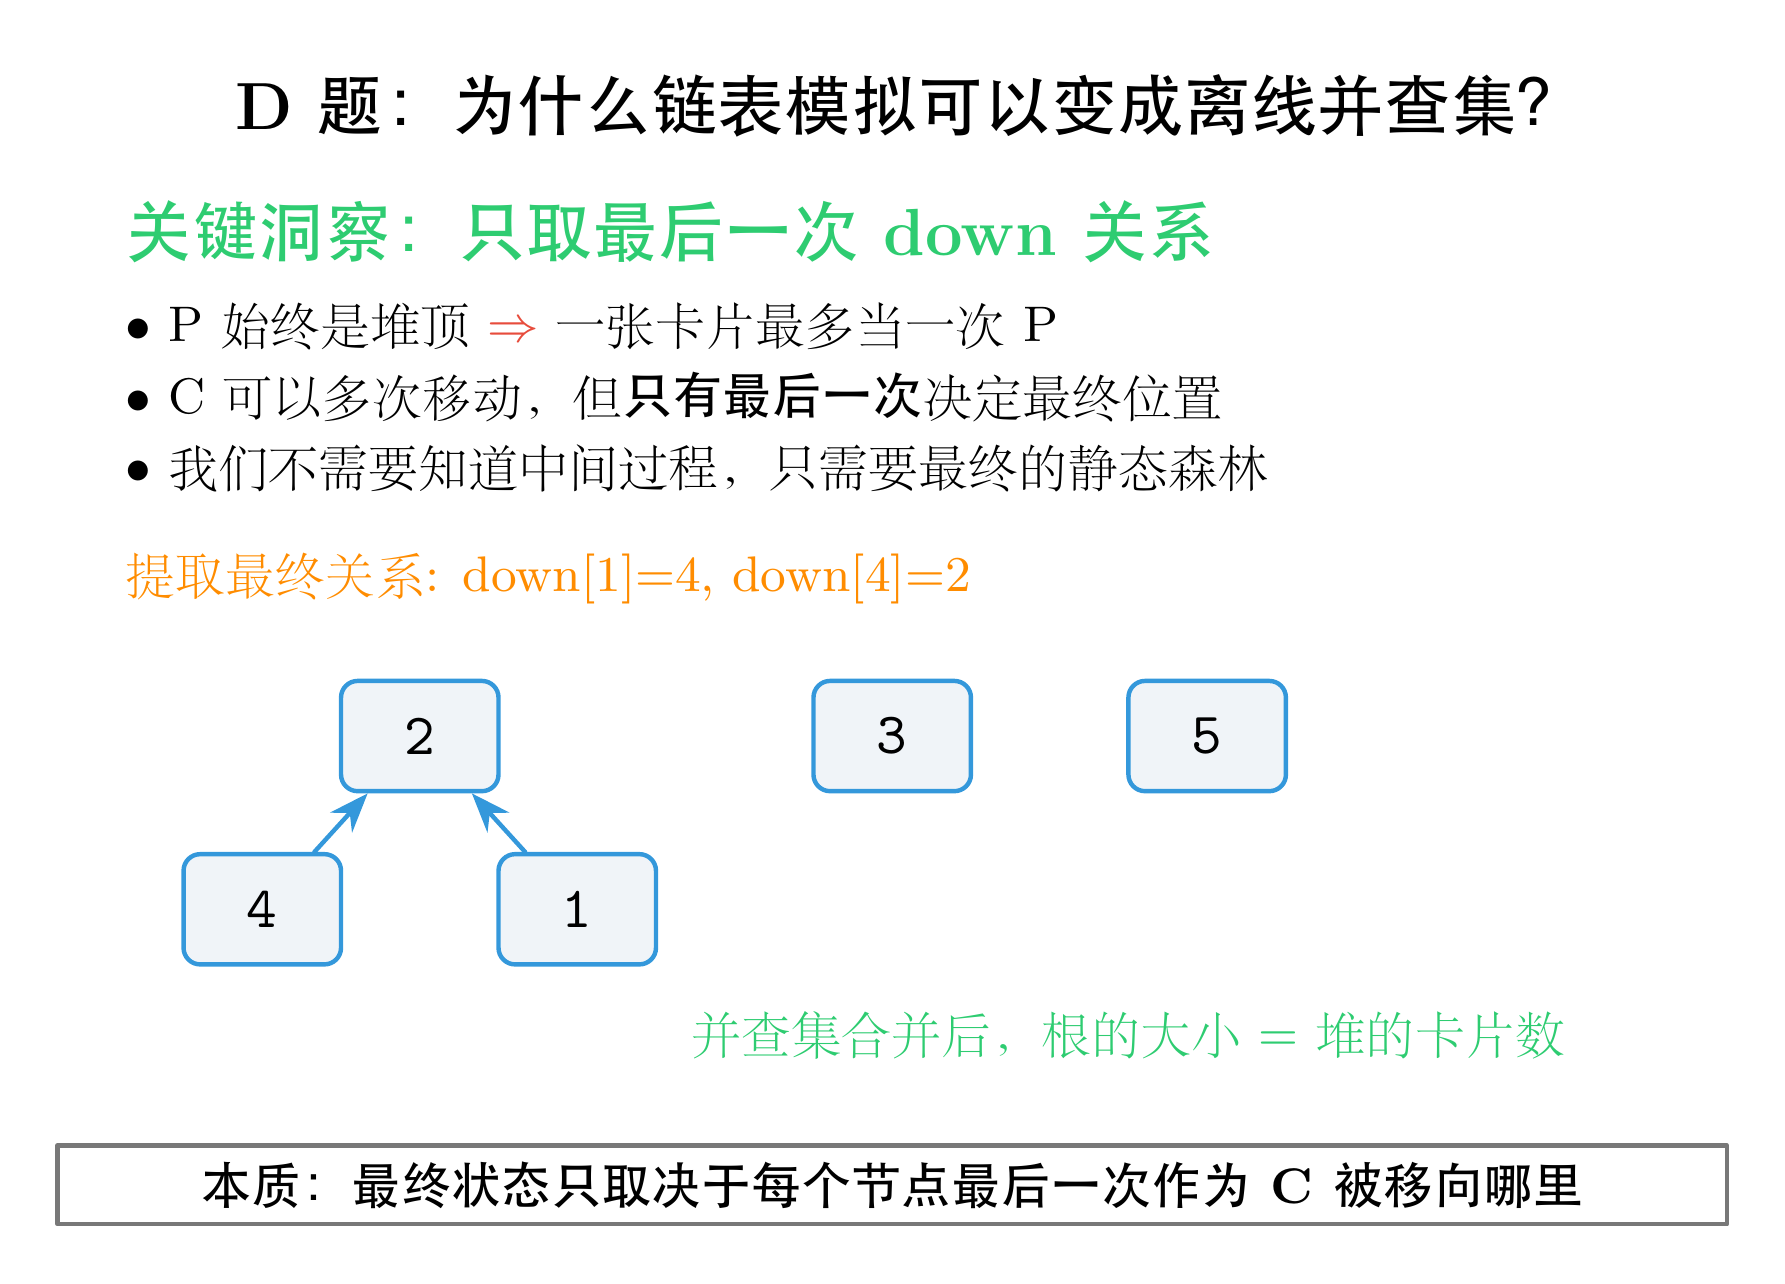
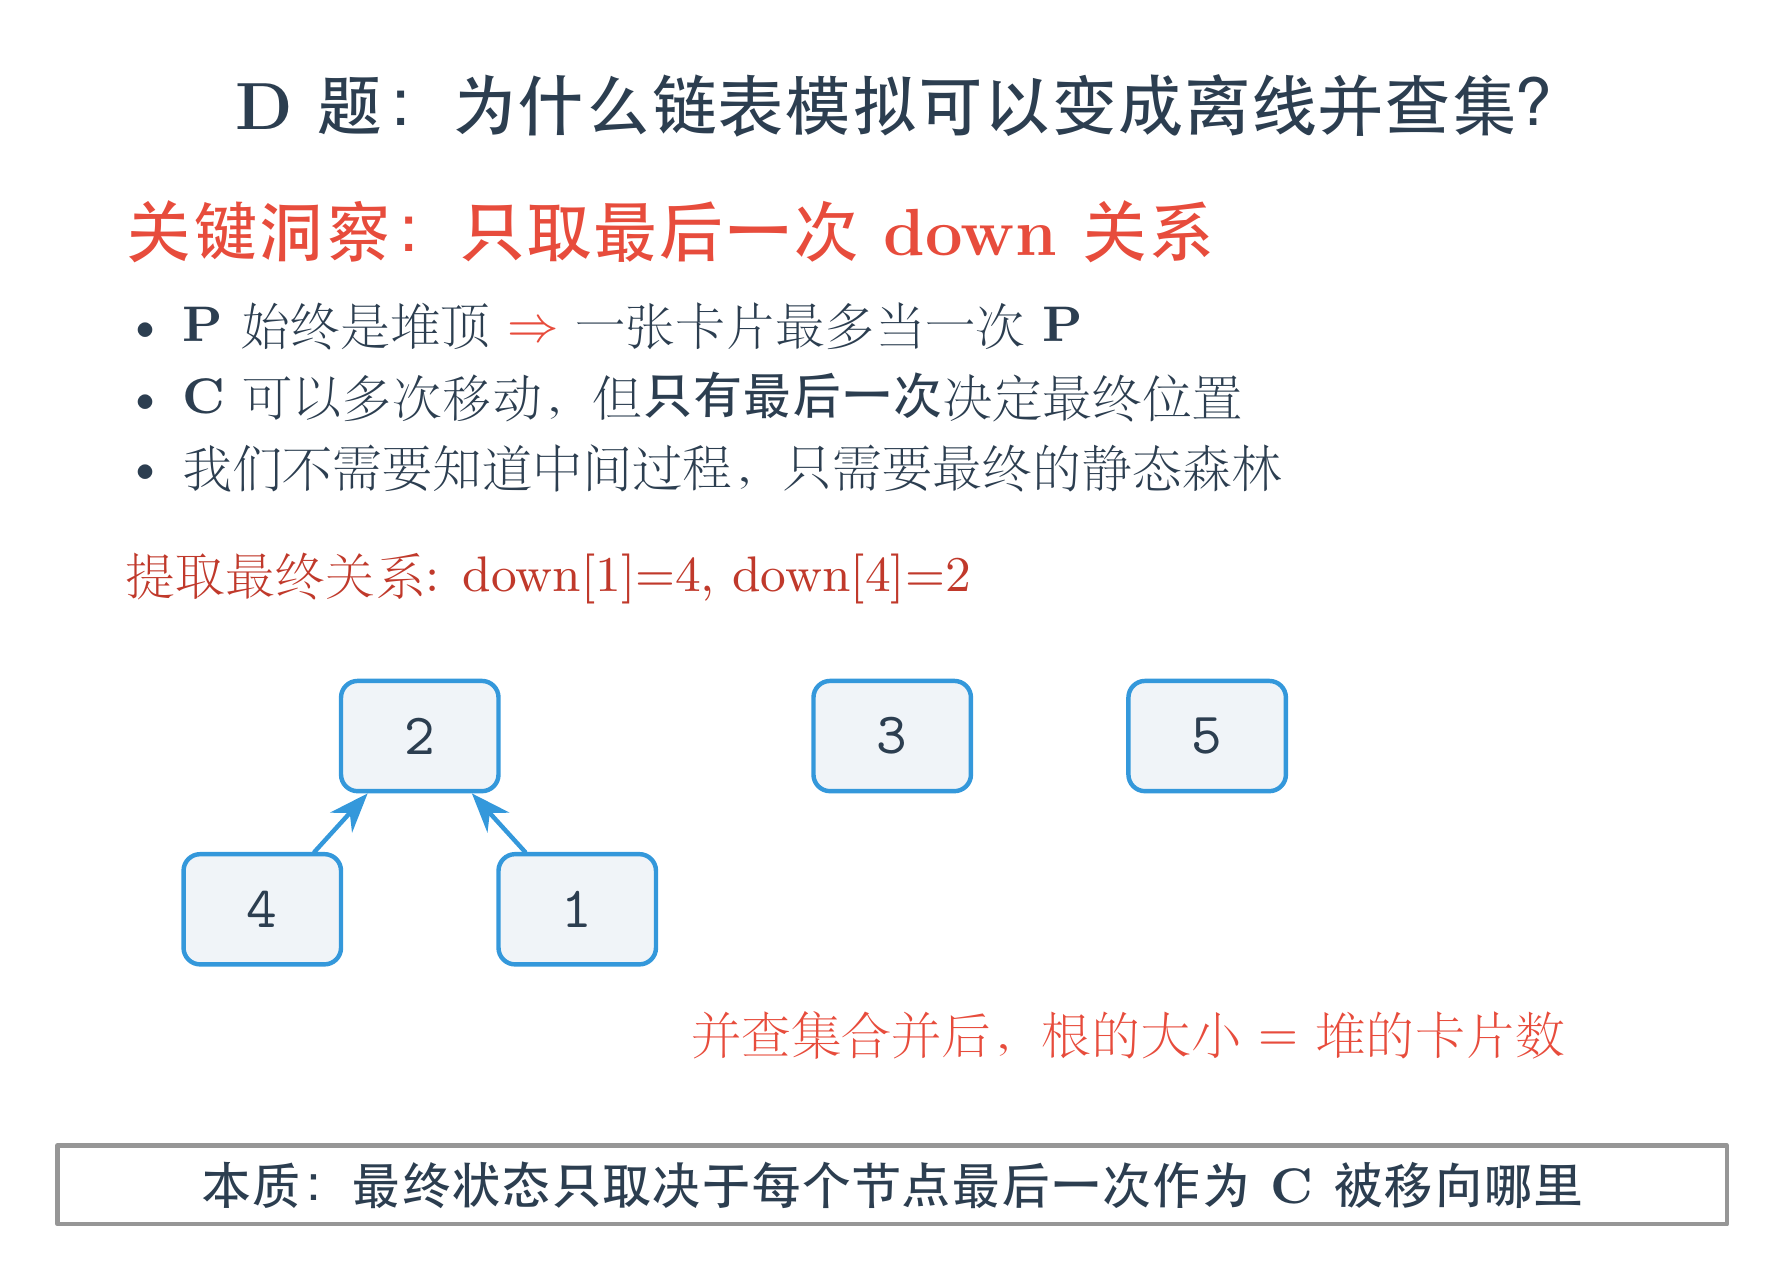
Redesign D diagram with high-contrast dark text on light background

diff --git a/ABC455/figures/d_diagram.tex b/ABC455/figures/d_diagram.tex
@@ -3,30 +3,30 @@
 \usepackage{tikz}
 \usetikzlibrary{arrows.meta, calc, positioning}
 
+\definecolor{darktext}{RGB}{44,62,80}
 \definecolor{nodebg}{RGB}{240,244,248}
 \definecolor{nodeborder}{RGB}{52,152,219}
-\definecolor{highlight}{RGB}{231,76,60}
-\definecolor{accent}{RGB}{46,204,113}
-\definecolor{warn}{RGB}{255,140,0}
-\definecolor{graytext}{RGB}{120,120,120}
+\definecolor{accent}{RGB}{231,76,60}
+\definecolor{warn}{RGB}{192,57,43}
+\definecolor{grayborder}{RGB}{150,150,150}
 
 \begin{document}
 \begin{tikzpicture}[font=\large, line cap=round, line join=round,
-    box/.style={draw=nodeborder, thick, fill=nodebg, minimum width=1.0cm, minimum height=0.7cm, rounded corners=3pt, font=\ttfamily},
+    box/.style={draw=nodeborder, thick, fill=nodebg, minimum width=1.0cm, minimum height=0.7cm, rounded corners=3pt, font=\ttfamily, text=darktext},
     arrow/.style={-{Stealth[length=2.5mm]}, thick, nodeborder}
 ]
   % ========== Title ==========
-  \node at (5.5,6.2) {\textbf{D 题：为什么链表模拟可以变成离线并查集？}};
+  \node[text=darktext] at (5.5,6.2) {\textbf{D 题：为什么链表模拟可以变成离线并查集？}};
 
   % ========== Key insights ==========
-  \node[anchor=west, accent] at (0.5,5.4) {\textbf{关键洞察：只取最后一次 down 关系}};
+  \node[anchor=west, text=accent] at (0.5,5.4) {\textbf{关键洞察：只取最后一次 down 关系}};
 
-  \node[anchor=west, font=\small] at (0.5,4.8) {$\bullet$ P 始终是堆顶 \textcolor{highlight}{$\Rightarrow$} 一张卡片最多当一次 P};
-  \node[anchor=west, font=\small] at (0.5,4.35) {$\bullet$ C 可以多次移动，但\textbf{只有最后一次}决定最终位置};
-  \node[anchor=west, font=\small] at (0.5,3.9) {$\bullet$ 我们不需要知道中间过程，只需要最终的静态森林};
+  \node[anchor=west, font=\small, text=darktext] at (0.5,4.8) {\textbullet\ \textbf{P} 始终是堆顶 \textcolor{accent}{$\Rightarrow$} 一张卡片最多当一次 \textbf{P}};
+  \node[anchor=west, font=\small, text=darktext] at (0.5,4.35) {\textbullet\ \textbf{C} 可以多次移动，但\textbf{只有最后一次}决定最终位置};
+  \node[anchor=west, font=\small, text=darktext] at (0.5,3.9) {\textbullet\ 我们不需要知道中间过程，只需要最终的静态森林};
 
   % ========== Extract down relations ==========
-  \node[anchor=west, warn, font=\small] at (0.5,3.2) {提取最终关系: down[1]=4, down[4]=2};
+  \node[anchor=west, text=warn, font=\small] at (0.5,3.2) {提取最终关系: down[1]=4, down[4]=2};
 
   % ========== Forest result ==========
   \node[box] (r2) at (2.5,2.2) {2};
@@ -38,11 +38,11 @@
   \draw[arrow] (r4) -- (r2);
   \draw[arrow] (r1) -- (r2);
 
-  \node[accent, font=\small] at (7.0,0.3) {并查集合并后，根的大小 = 堆的卡片数};
+  \node[text=accent, font=\small] at (7.0,0.3) {并查集合并后，根的大小 = 堆的卡片数};
 
   % ========== Bottom summary ==========
-  \draw[thick, graytext] (0.2,-0.4) rectangle (10.8,-0.9);
-  \node[font=\small] at (5.5,-0.65) {\textbf{本质：最终状态只取决于每个节点最后一次作为 C 被移向哪里}};
+  \draw[thick, grayborder] (0.2,-0.4) rectangle (10.8,-0.9);
+  \node[font=\small, text=darktext] at (5.5,-0.65) {\textbf{本质：最终状态只取决于每个节点最后一次作为 \textbf{C} 被移向哪里}};
 
 \end{tikzpicture}
 \end{document}
